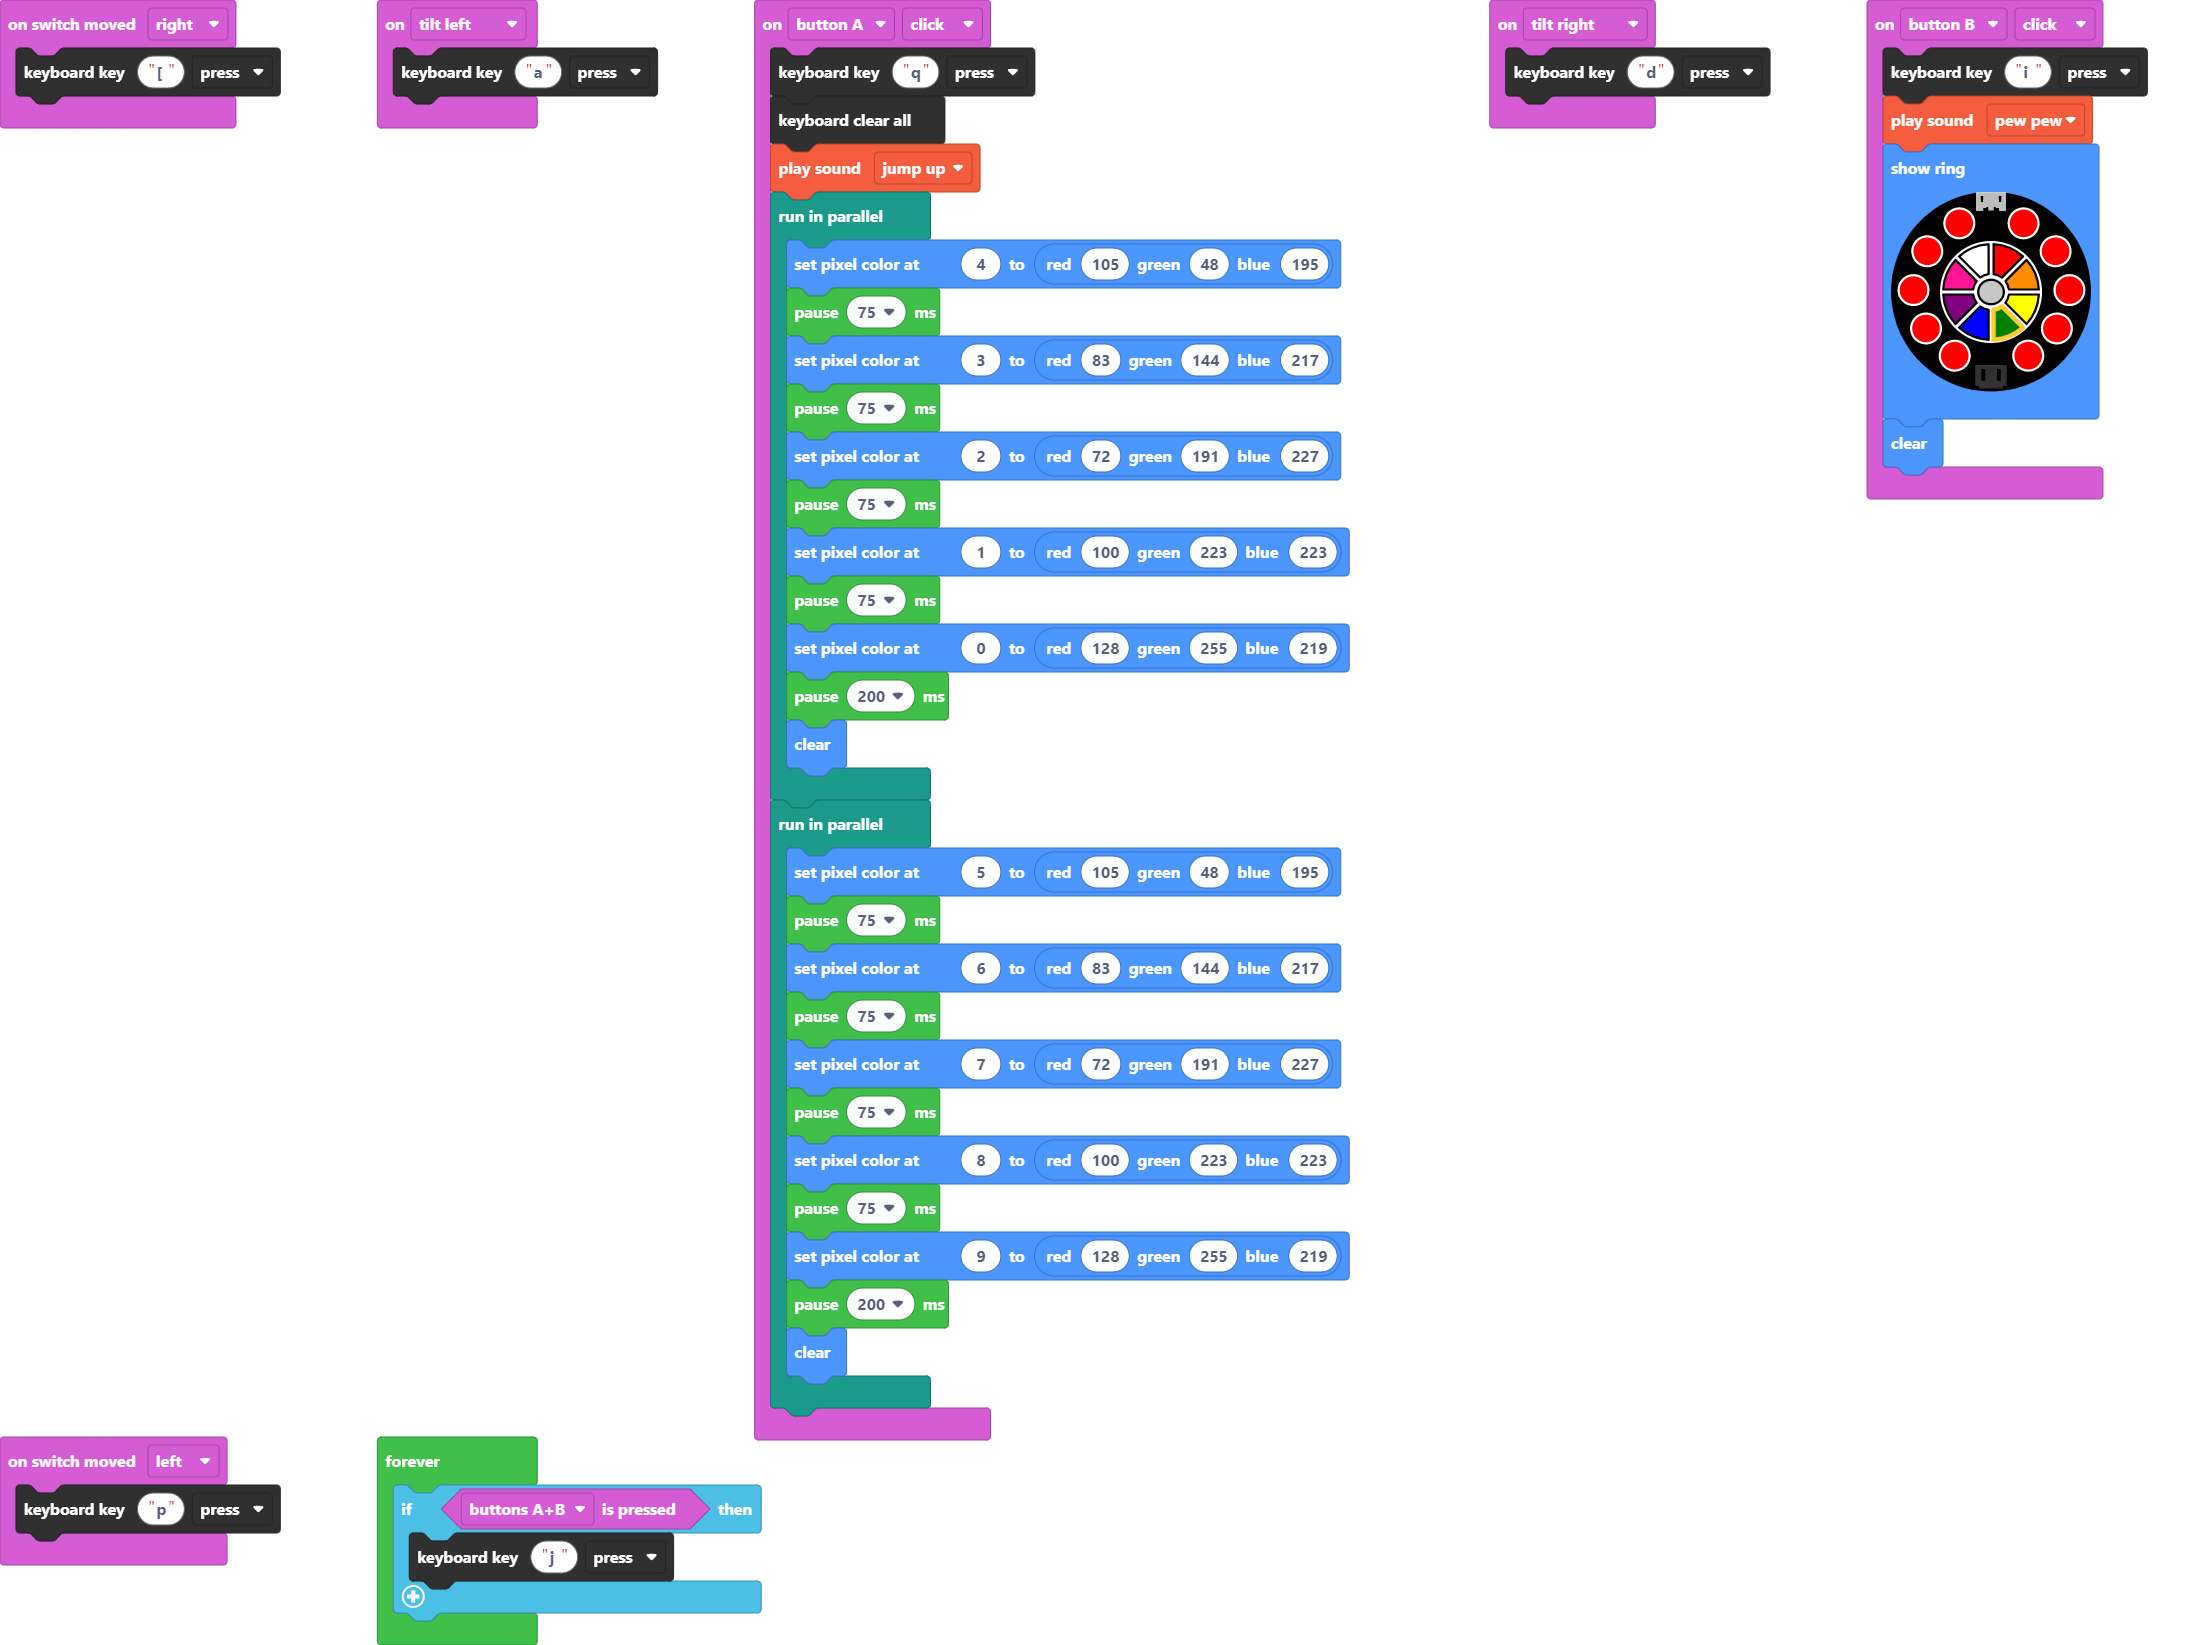
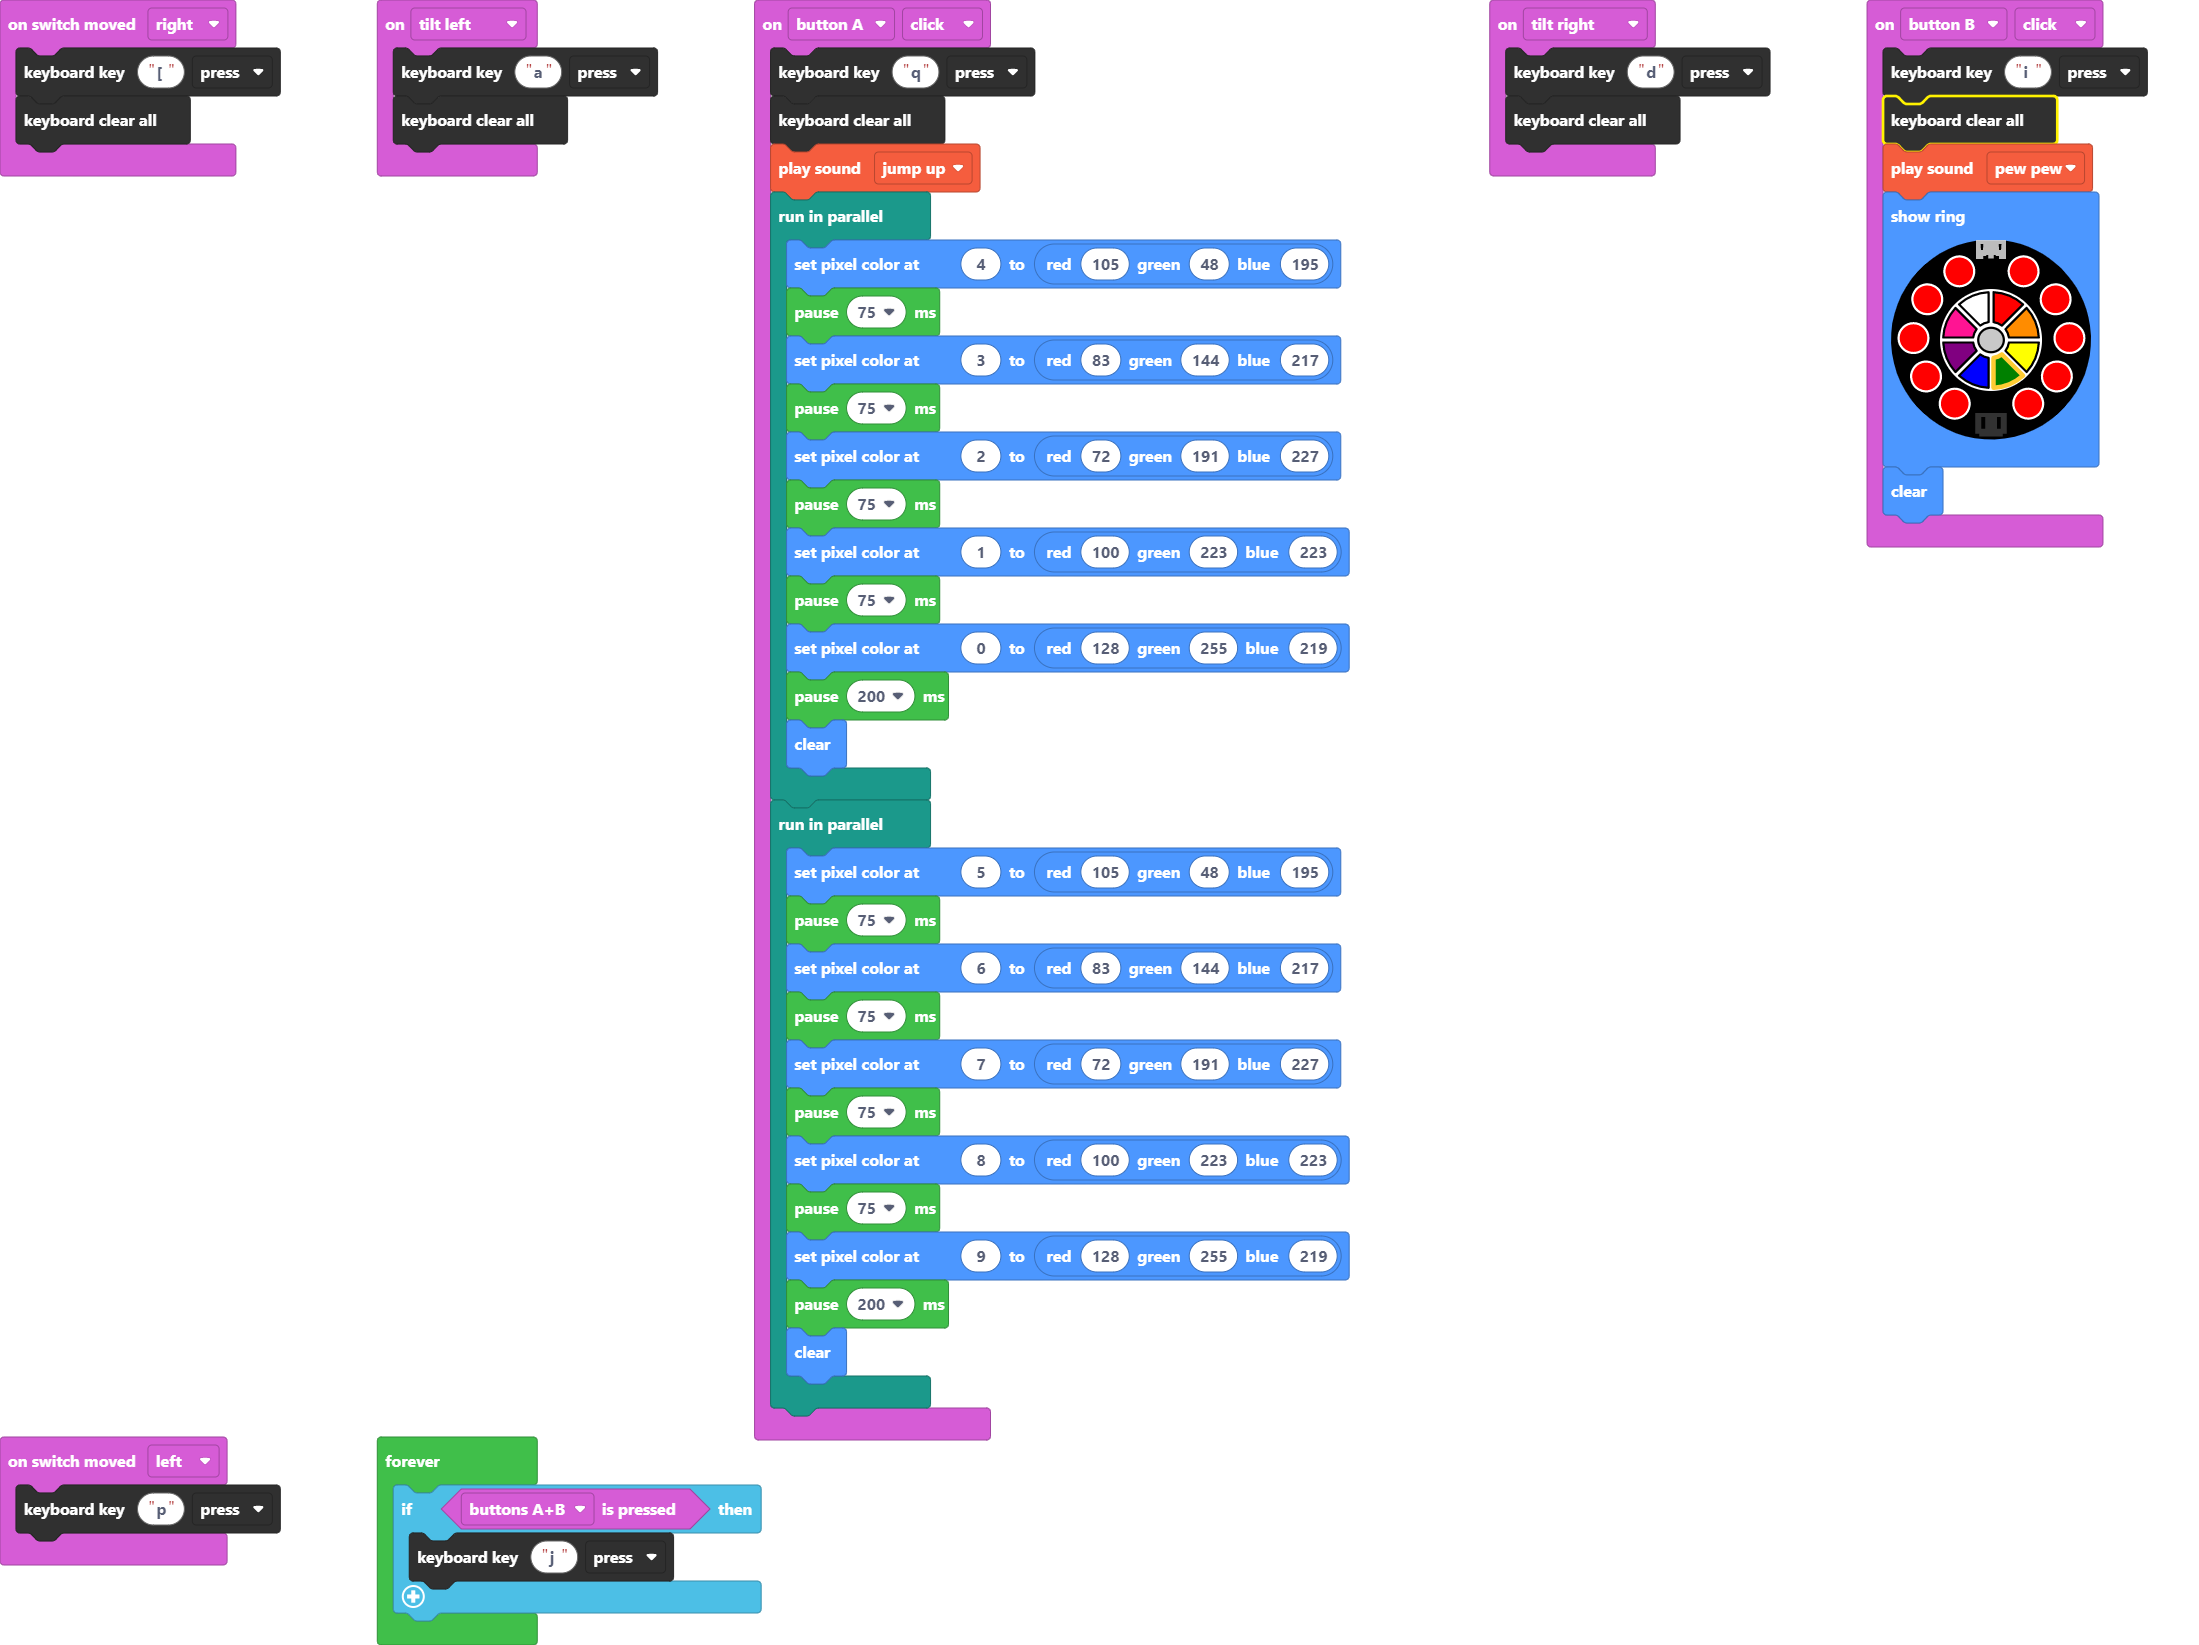
Update main.blocks, main.ts

diff --git a/main.ts b/main.ts
@@ -1,8 +1,10 @@
 input.onSwitchMoved(SwitchDirection.Right, function () {
     keyboard.key("[", KeyboardKeyEvent.Press)
+    keyboard.clearAllKeys()
 })
 input.onGesture(Gesture.TiltLeft, function () {
     keyboard.key("a", KeyboardKeyEvent.Press)
+    keyboard.clearAllKeys()
 })
 input.buttonA.onEvent(ButtonEvent.Click, function () {
     keyboard.key("q", KeyboardKeyEvent.Press)
@@ -37,9 +39,11 @@ input.buttonA.onEvent(ButtonEvent.Click, function () {
 })
 input.onGesture(Gesture.TiltRight, function () {
     keyboard.key("d", KeyboardKeyEvent.Press)
+    keyboard.clearAllKeys()
 })
 input.buttonB.onEvent(ButtonEvent.Click, function () {
     keyboard.key("i", KeyboardKeyEvent.Press)
+    keyboard.clearAllKeys()
     music.pewPew.play()
     light.showRing(
     `red red red red red red red red red red`
